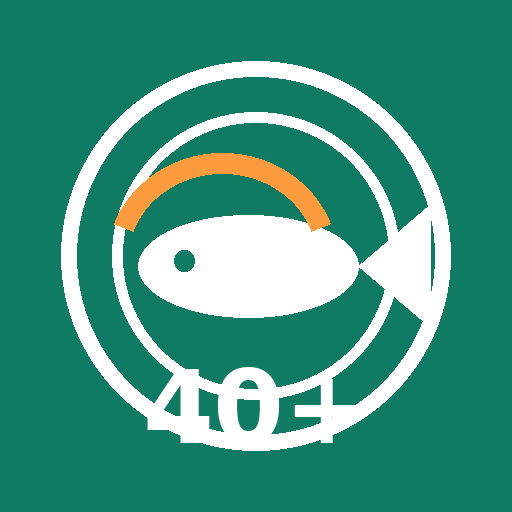
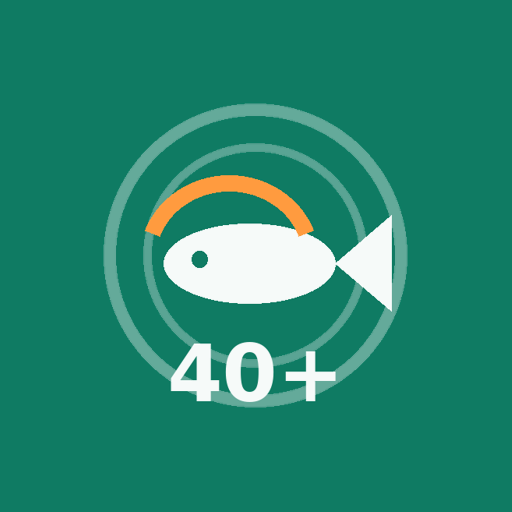
Add files via upload
PWAアイコン配置とキャッシュ版数を整合

Changed region(s): [[0.0938, 0.0938, 0.9062, 0.9062]]

diff --git a/app.js b/app.js
@@ -326,7 +326,7 @@
     if (state.spotMode) state.catchMode = false;
     els.addSpotMode.classList.toggle("is-active", state.spotMode);
     els.addCatchMode.classList.toggle("is-active", state.catchMode);
-    els.dataStatus.textContent = state.spotMode ? "地図をタップして釣り場を追加します。" : "v51・緊急修正版";
+    els.dataStatus.textContent = state.spotMode ? "地図をタップして釣り場を追加します。" : "v52・アイコン修正版";
   }
 
   function setCatchMode(value) {
@@ -334,7 +334,7 @@
     if (state.catchMode) state.spotMode = false;
     els.addSpotMode.classList.toggle("is-active", state.spotMode);
     els.addCatchMode.classList.toggle("is-active", state.catchMode);
-    els.dataStatus.textContent = state.catchMode ? "地図をタップして記録ピンを追加します。" : "v51・緊急修正版";
+    els.dataStatus.textContent = state.catchMode ? "地図をタップして記録ピンを追加します。" : "v52・アイコン修正版";
   }
 
   function handleMapClick(latlng) {
@@ -1050,7 +1050,7 @@
     applySidebarBackground(localStorage.getItem(BACKGROUND_STORAGE_KEY) || "");
     render();
     registerServiceWorker();
-    els.dataStatus.textContent = `v51・緊急修正 / 釣り場${state.spots.length}件 / 記録${state.catches.length}件 / 40up${state.catches.filter(isBigBass).length}件`;
+    els.dataStatus.textContent = `v52・アイコン修正 / 釣り場${state.spots.length}件 / 記録${state.catches.length}件 / 40up${state.catches.filter(isBigBass).length}件`;
   }
 
   init();

diff --git a/index.html b/index.html
@@ -41,7 +41,7 @@
             <button class="filter-chip" type="button" data-filter="港">港・漁港</button>
             <button class="filter-chip" type="button" data-filter="マリーナ">マリーナ</button>
           </div>
-          <p id="dataStatus" class="data-status" aria-live="polite">v51・緊急修正版</p>
+          <p id="dataStatus" class="data-status" aria-live="polite">v52・アイコン修正版</p>
           <p class="notice-banner">掲載情報は釣りの許可を意味しません。現地看板・管理者・自治体・漁協の最新情報を必ず確認してください。</p>
           <div class="stats-grid" aria-label="記録集計">
             <span><strong id="spotCount">0</strong><small>釣り場</small></span>
@@ -66,7 +66,7 @@
 
         <footer class="sidebar-footer">
           <span id="visibleCount">0件</span>
-          <span>v51・緊急修正</span>
+          <span>v52・アイコン修正</span>
         </footer>
 
         <section class="settings-row sidebar-actions" aria-label="設定">

diff --git a/pwa-install.js b/pwa-install.js
@@ -2,8 +2,8 @@
   "use strict";
   window.__MIE_PWA_INSTALL_MANAGED__ = true;
 
-  const APP_VERSION = "v51-livefix";
-  const CURRENT_CACHE = "bass-spot-log-v51-livefix";
+  const APP_VERSION = "v52-icon-cachefix";
+  const CURRENT_CACHE = "bass-spot-log-v52-icon-cachefix";
   const installButton = document.querySelector("#installAppButton");
   const installPanel = document.querySelector("#installPanel");
   const installStatus = document.querySelector("#installStatus");

diff --git a/sw.js b/sw.js
@@ -1,4 +1,4 @@
-const CACHE_NAME = "bass-spot-log-v51-livefix";
+const CACHE_NAME = "bass-spot-log-v52-icon-cachefix";
 const APP_SHELL = [
   "./",
   "./index.html",

diff --git a/UPLOAD_STEPS_NO_README.md b/UPLOAD_STEPS_NO_README.md
@@ -1,4 +1,4 @@
-# v51 安定復旧・キャッシュリセット版（READMEは変更しない）
+# v52 アイコン・キャッシュ整合版（READMEは変更しない）
 
 このZIPには `README.md` は入れていません。
 既存のREADMEは上書きしないでください。
@@ -26,8 +26,8 @@ https://cichlid528.github.io/mie-fishing-map/reset-cache.html?auto=1
 
 ## 通常確認URL
 
-https://cichlid528.github.io/mie-fishing-map/?v=50-reset
+https://cichlid528.github.io/mie-fishing-map/?v=v52-icon-cachefix
 
 ## コミットメッセージ
 
-fix: 地図表示を安定復旧して古いキャッシュをリセット
+fix: PWAアイコン配置とキャッシュ版数を整合